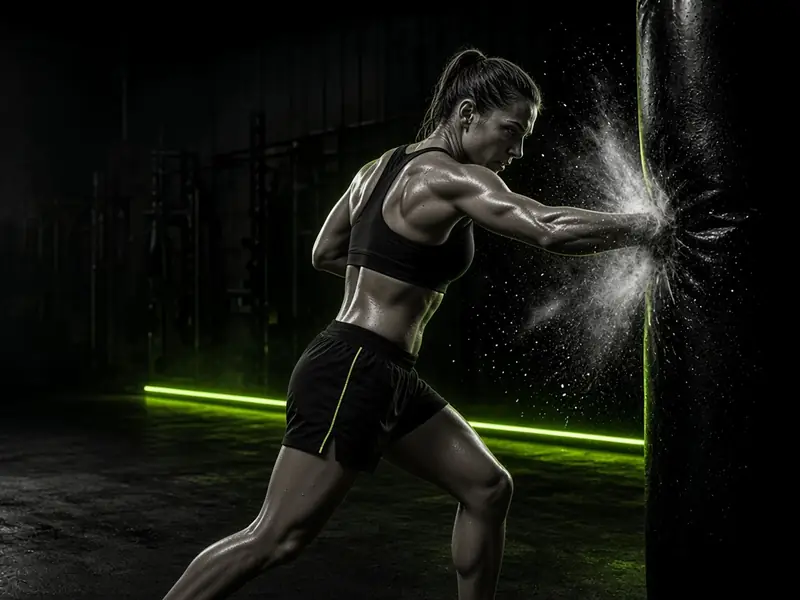
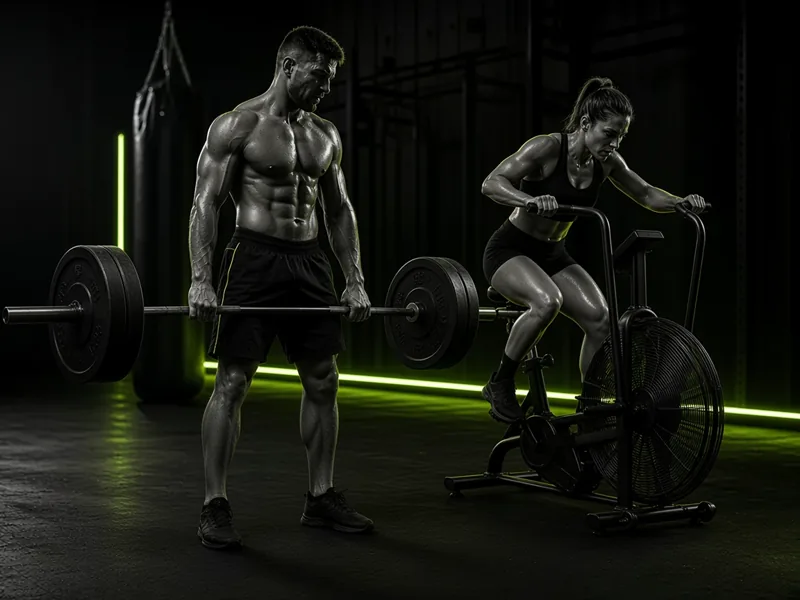
Train tile: lifting + assault bike photo
Use the approved gym photo for both the male and female Train tiles at 800x600 WebP.

diff --git a/src/components/home/HomeQuickActions.tsx b/src/components/home/HomeQuickActions.tsx
@@ -11,7 +11,7 @@ const PHOTO_ACTIONS = [
     label: "Train",
     hint: "Today’s work",
     src: "/tiles/train.webp",
-    alt: "Athlete punching a heavy bag",
+    alt: "Athlete lifting a dumbbell beside an assault bike",
   },
   {
     href: "/mobility",
